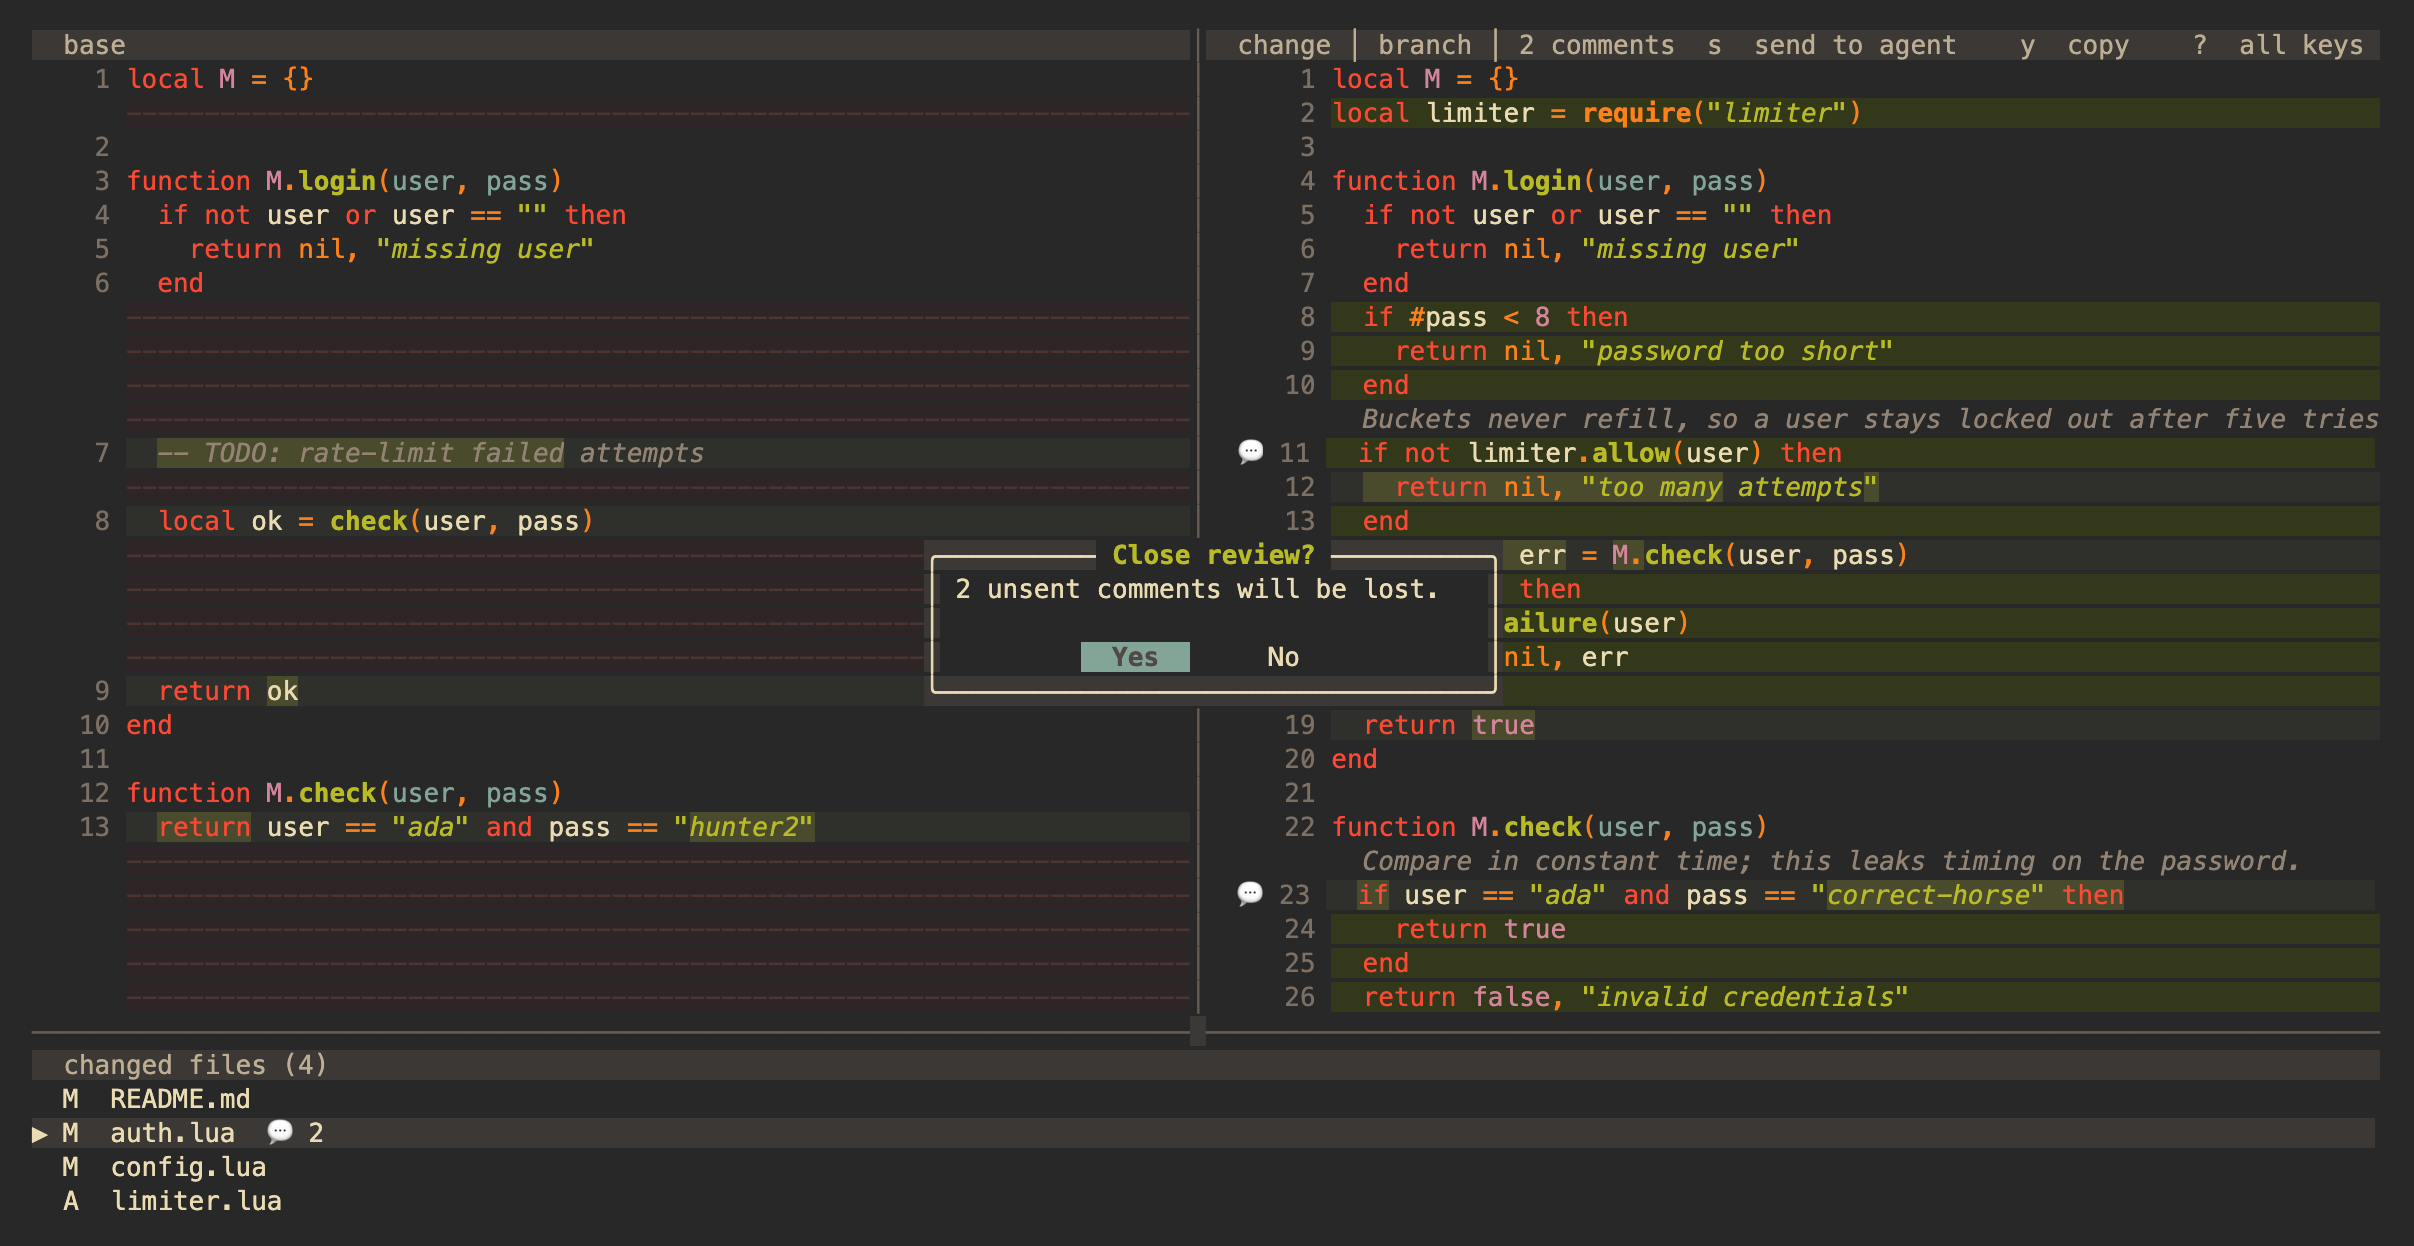
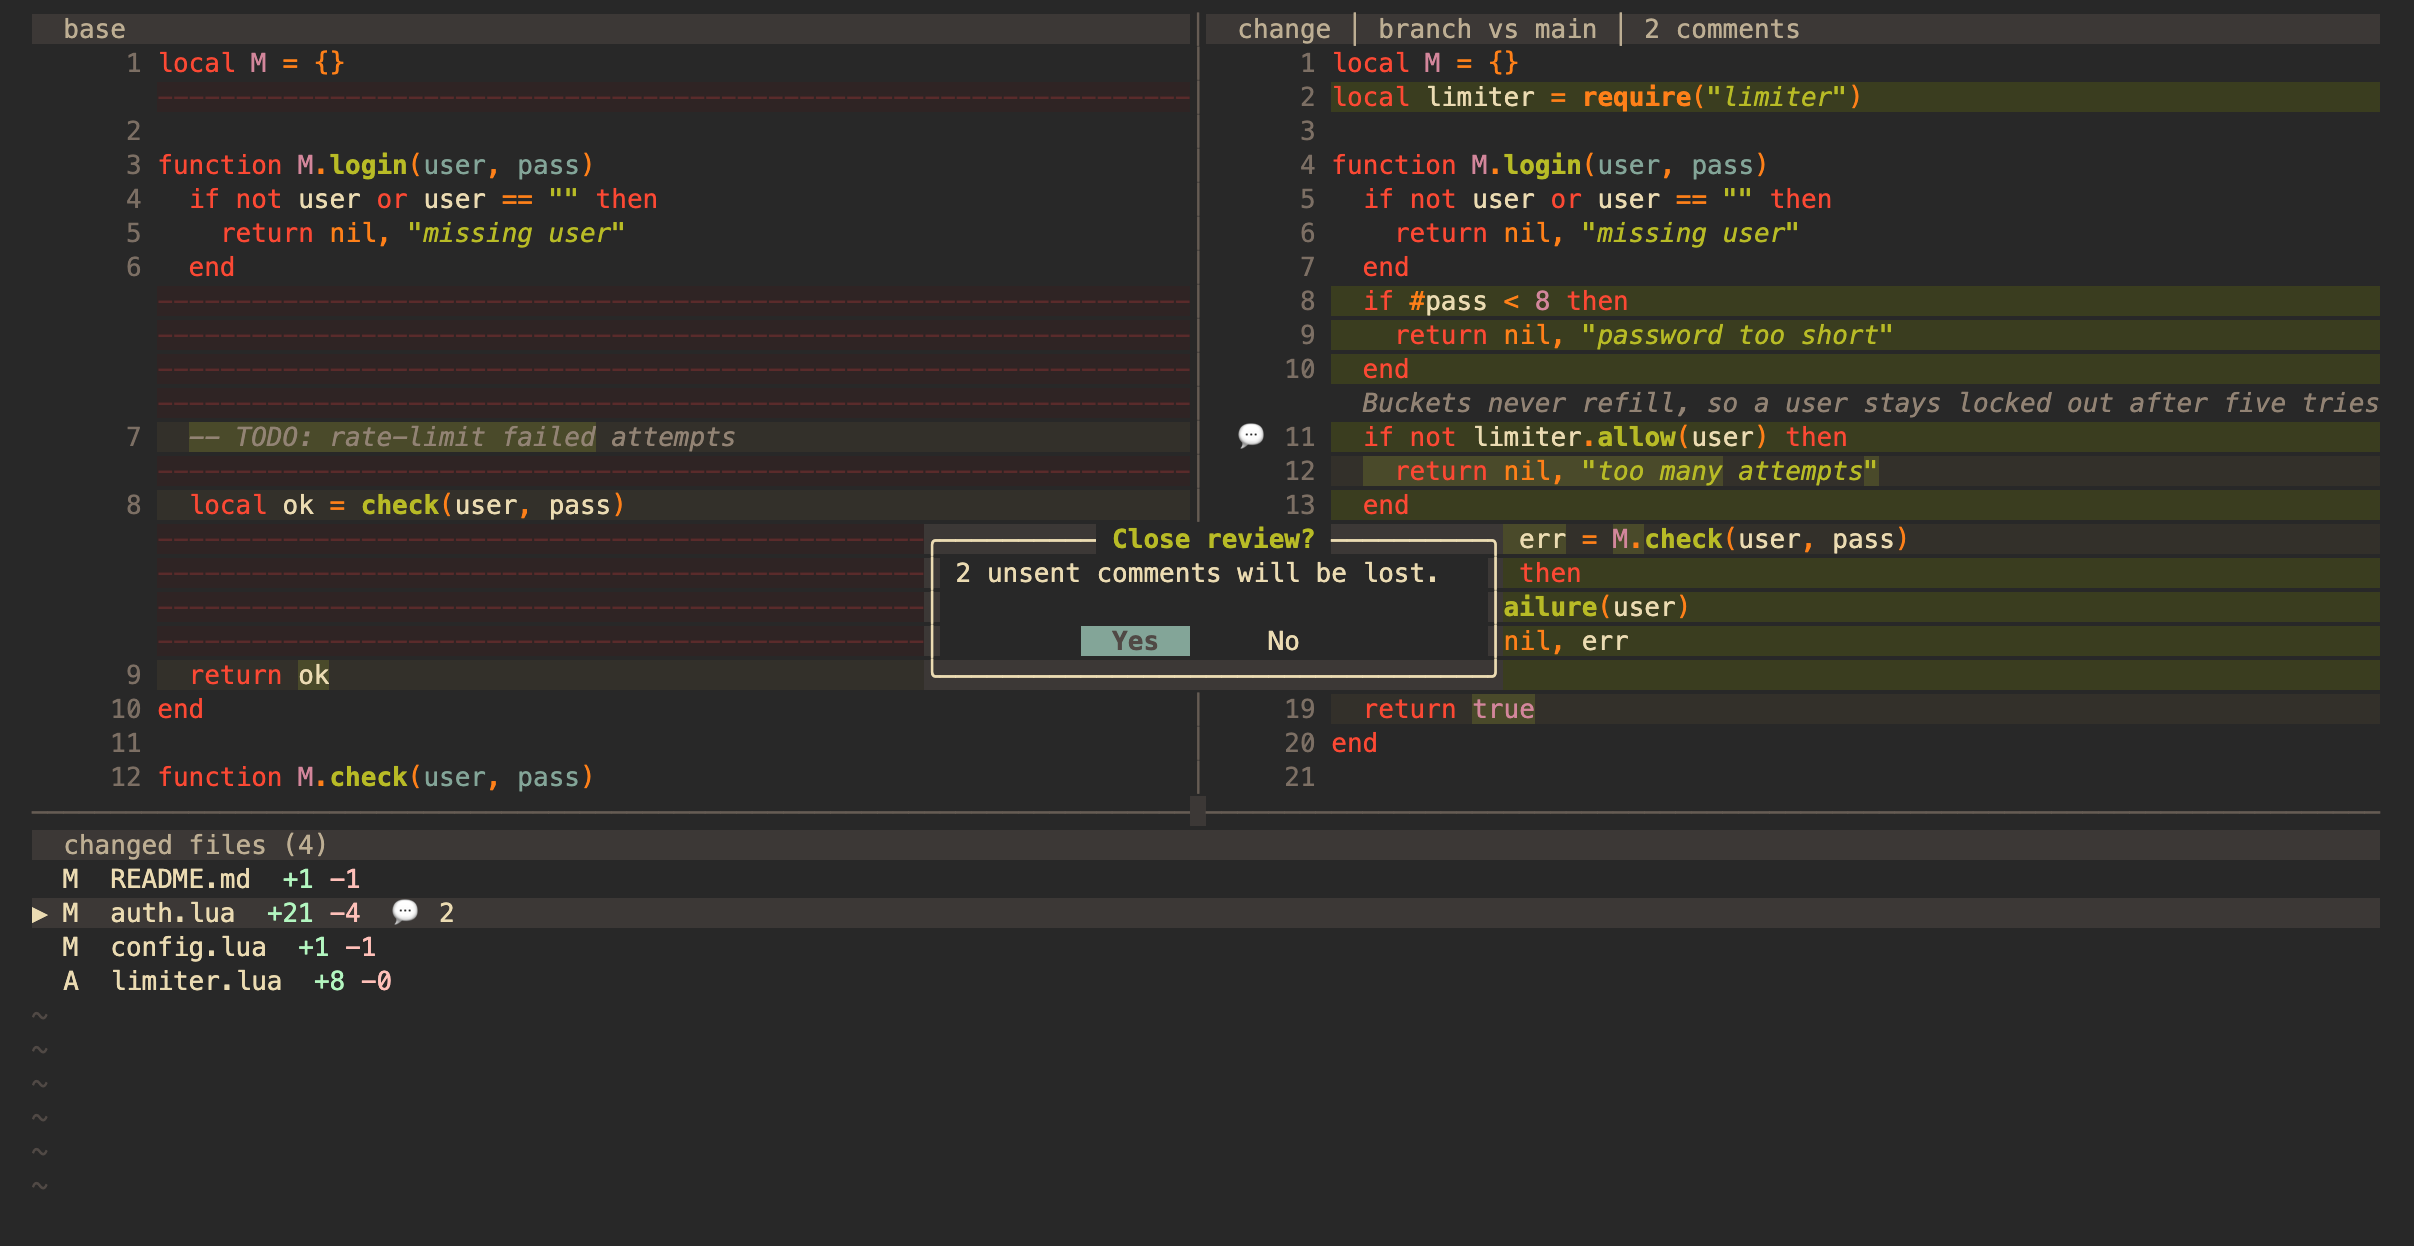
Refresh the README screenshots
They show the fixed-height changed-files panel with each file's added and deleted lines, and the branch view's label.

diff --git a/README.md b/README.md
@@ -2,7 +2,7 @@
 
 A multiplexer-agnostic Neovim plugin that brings [herdr-reviewr](https://github.com/persiyanov/herdr-reviewr)-style code review to Neovim: open a diff of two branches, comment on lines or ranges, and send the whole review to a running coding agent (Claude Code, Codex, OpenCode, Aider, …), entirely from inside Neovim.
 
-![reviewr.nvim reviewing a branch: the base on the left, the change on the right with two line comments above the lines they're about, every changed file listed along the bottom, and the bar above the change saying what to do next.](assets/screenshot.png)
+![reviewr.nvim reviewing a branch: the base on the left, the change on the right with two line comments above the lines they're about, every changed file listed along the bottom with its added and deleted lines, and the bar above the change naming the view and the comment count.](assets/screenshot.png)
 
 ![Adding a comment. `c` on a line or selection opens a small box over the other pane and marks the commented lines in the gutter. `:w` saves, `<esc>` cancels.](assets/comment.png)
 
